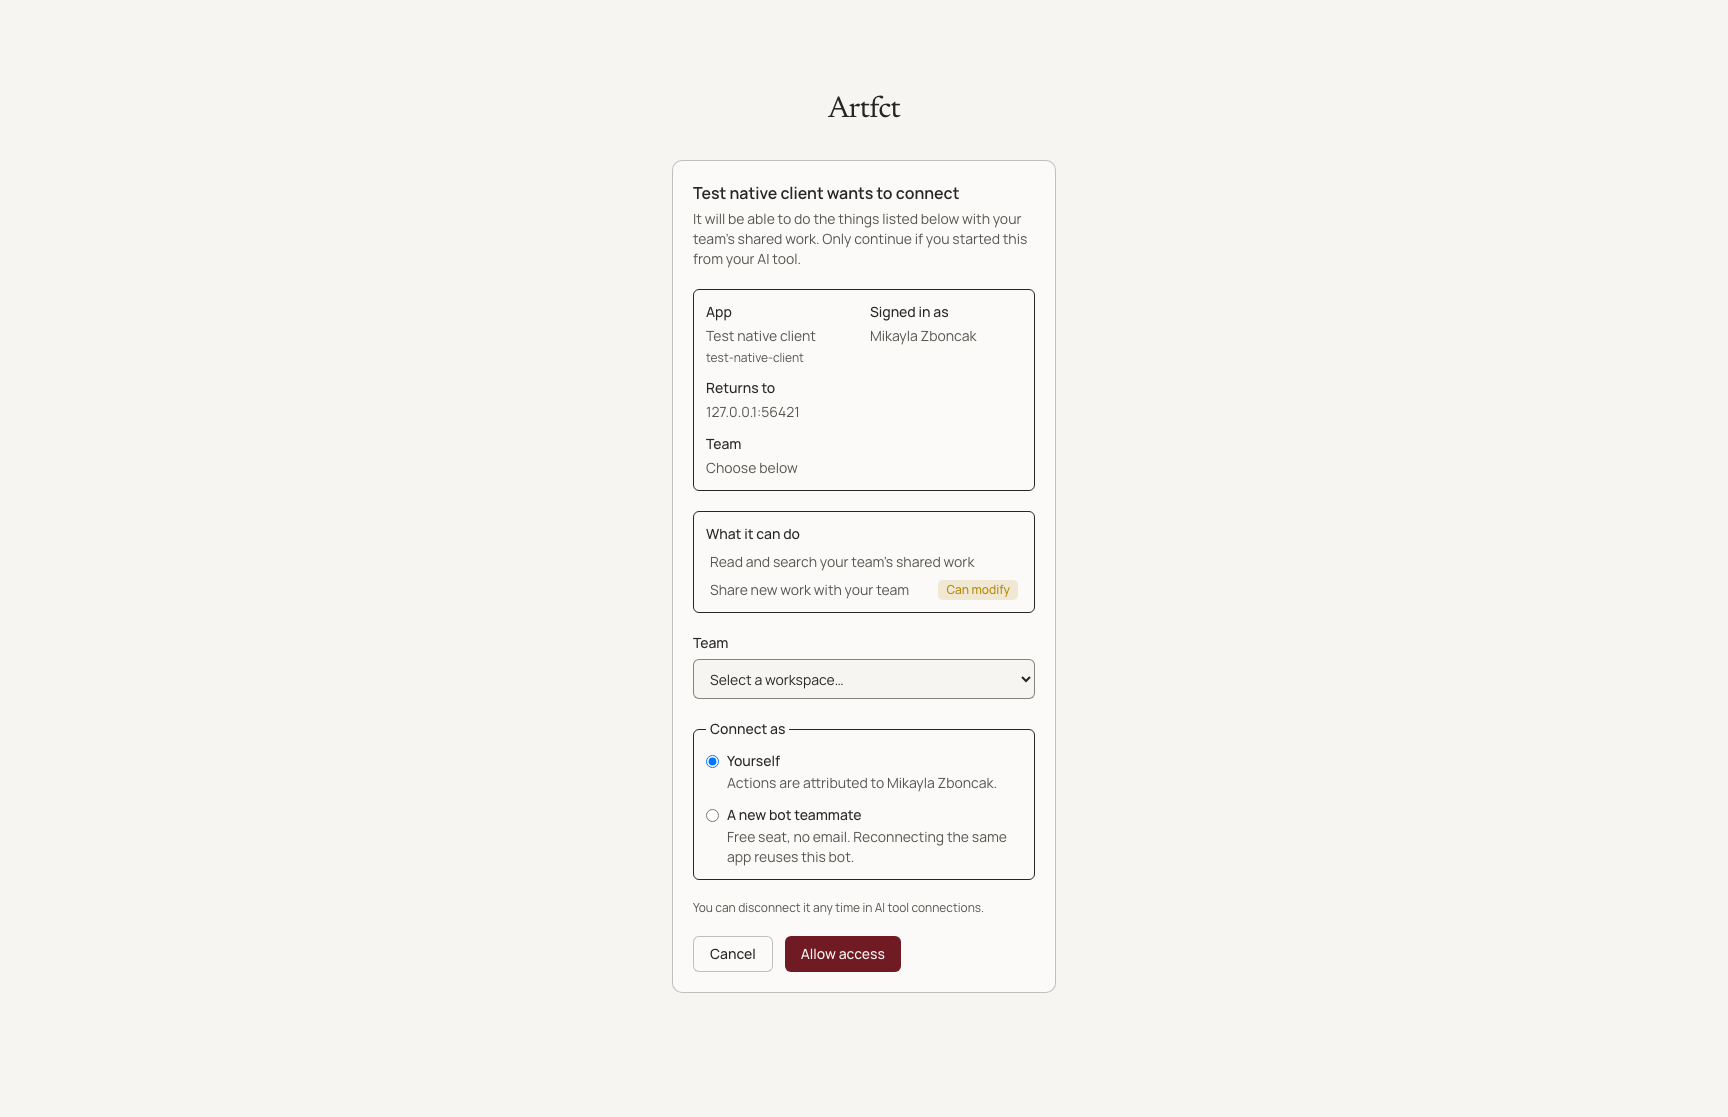
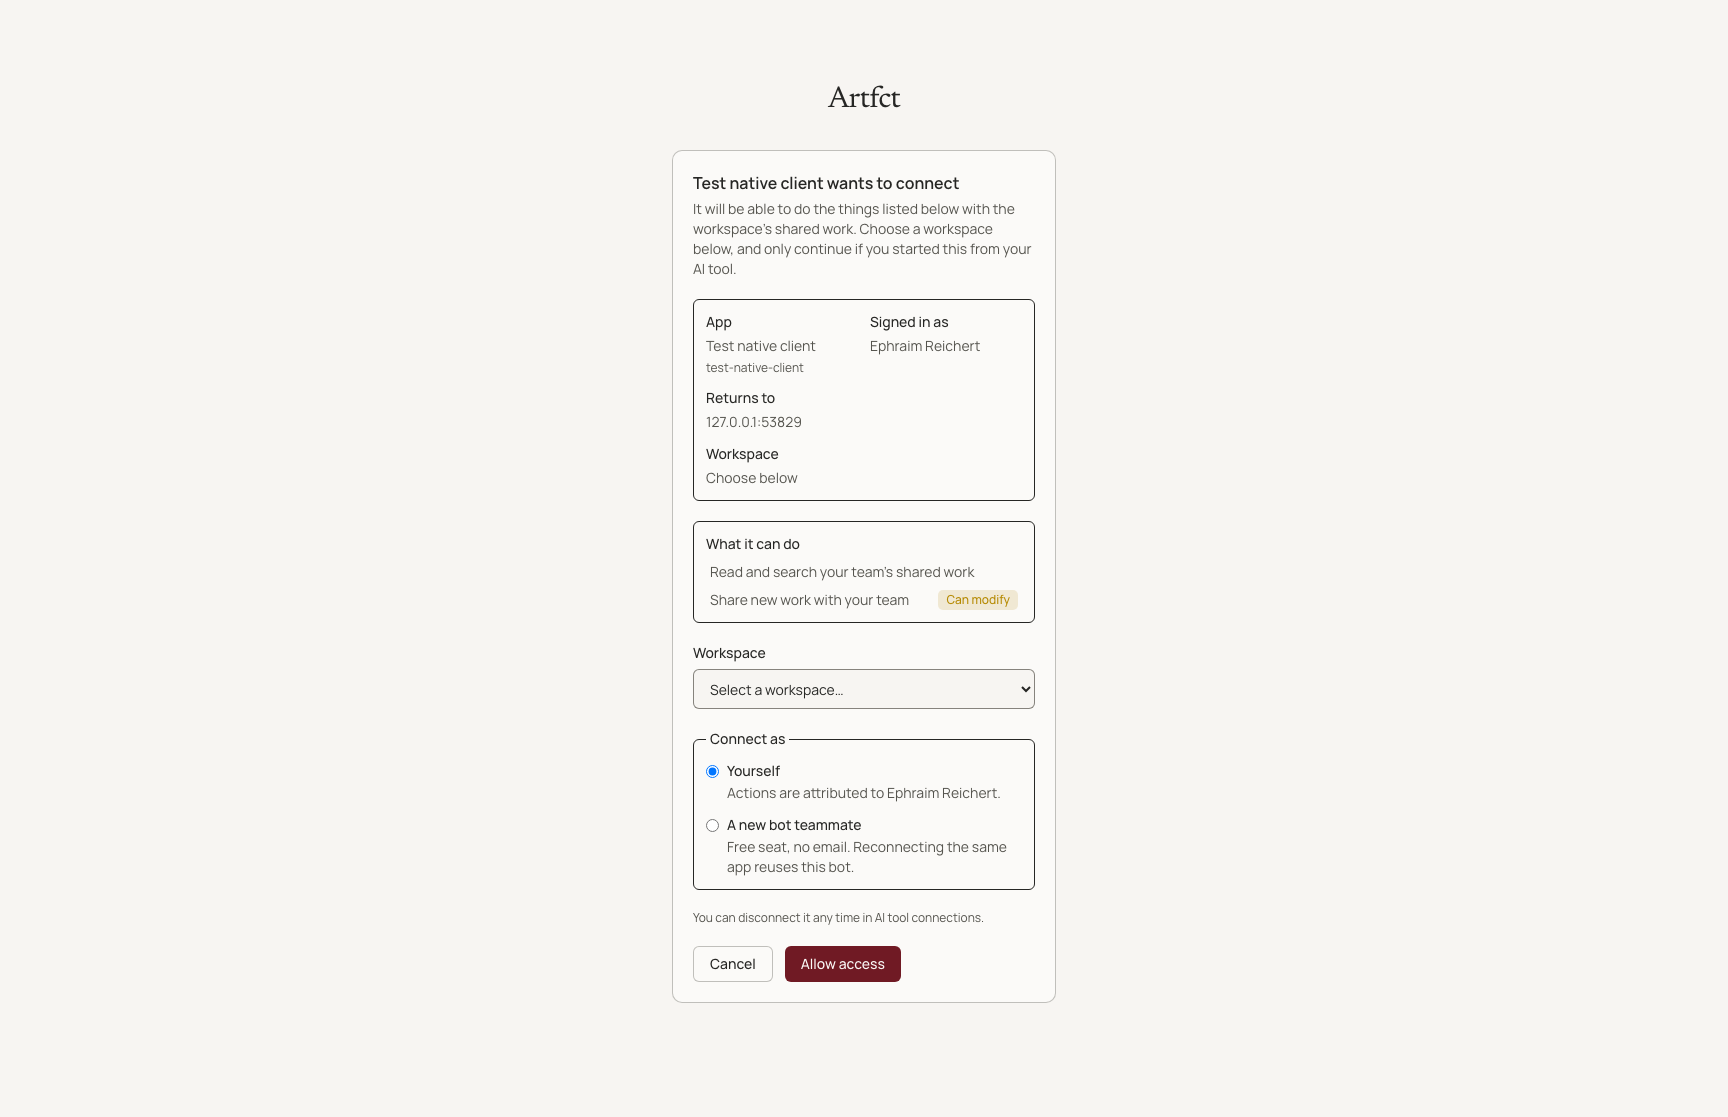
fix(oauth): address owner review on RUB-598
- Cancel skips validation so deny always works; label copy says Workspace.
- Bot options only for admitted workspaces; no bot-name leak.
- Browser cover for cancel-without-choice; bots empty assertion.
- Refreshed after screenshot for the new copy.

diff --git a/resources/js/pages/oauth/authorize.tsx b/resources/js/pages/oauth/authorize.tsx
@@ -169,7 +169,7 @@ function AuthorizeForm({
                             </div>
                         </div>
                         <div className="sm:col-span-2">
-                            <div className="font-medium">Team</div>
+                            <div className="font-medium">Workspace</div>
                             <div className="mt-1 break-words text-muted-foreground">
                                 {selectedTeam === ''
                                     ? 'Choose below'
@@ -282,7 +282,7 @@ function AuthorizeForm({
 
                         {teams.length > 1 && (
                             <div className="flex flex-col gap-1.5">
-                                <Label htmlFor="team">Team</Label>
+                                <Label htmlFor="team">Workspace</Label>
                                 <select
                                     id="team"
                                     name="team"
@@ -464,6 +464,7 @@ function AuthorizeForm({
                                 name="decision"
                                 value="deny"
                                 variant="outline"
+                                formNoValidate
                             >
                                 Cancel
                             </Button>

diff --git a/tests/Browser/McpOAuthOrgPickerBrowserTest.php b/tests/Browser/McpOAuthOrgPickerBrowserTest.php
@@ -56,3 +56,38 @@ test('RUB-598: consent without a hint forces a workspace choice before Allow acc
         'code_verifier' => $verifier,
     ])->assertOk()->assertJsonPath('organization', $pickedTeam->slug);
 });
+
+test('RUB-598: cancelling without picking a workspace still declines the grant', function () {
+    $user = User::factory()->create();
+    $defaultTeam = Team::factory()->create(['name' => 'Default Workspace']);
+    $pickedTeam = Team::factory()->create(['name' => 'Picked Workspace']);
+    $defaultTeam->memberships()->create(['user_id' => $user->id, 'role' => TeamRole::Admin]);
+    $pickedTeam->memberships()->create(['user_id' => $user->id, 'role' => TeamRole::Admin]);
+    $user->switchTeam($defaultTeam);
+    test()->actingAs($user);
+
+    $callback = url('/oauth/callback');
+    oauthTestClient([$callback]);
+    $callbackPort = (string) parse_url($callback, PHP_URL_PORT);
+
+    $parameters = http_build_query([
+        'response_type' => 'code',
+        'client_id' => 'test-native-client',
+        'redirect_uri' => $callback,
+        'scope' => 'artifacts:read artifacts:deploy',
+        'state' => 'rub598-cancel-state',
+        'code_challenge' => oauthChallenge(str_repeat('m', 64)),
+        'code_challenge_method' => 'S256',
+    ]);
+
+    visit('/oauth/authorize?'.$parameters)
+        ->assertSee('Choose below')
+        ->assertNoJavaScriptErrors()
+        ->click('Cancel')
+        ->assertHostIs('127.0.0.1')
+        ->assertPortIs($callbackPort)
+        ->assertPathIs('/oauth/callback')
+        ->assertQueryStringHas('error', 'access_denied')
+        ->assertQueryStringHas('state', 'rub598-cancel-state')
+        ->assertQueryStringMissing('code');
+});

diff --git a/app/Http/Controllers/OAuth/AuthorizationServerController.php b/app/Http/Controllers/OAuth/AuthorizationServerController.php
@@ -219,7 +219,11 @@ final class AuthorizationServerController extends Controller
 
         $client = OAuthClient::query()->where('client_id', $parameters['client_id'])->first();
         $role = $user->teamRole($team);
-        $canInstallAsBot = $role instanceof TeamRole
+        // Bot options are only offered for a workspace the session can use.
+        // With the choice still open, the fallback workspace may be one the
+        // session cannot be admitted to, and its bot names must not leak.
+        $canInstallAsBot = TeamSignIn::admits($request, $user, $team)
+            && $role instanceof TeamRole
             && $role !== TeamRole::Viewer
             && ! $user->isBot();
 

diff --git a/tests/Feature/Identity/AuthModeEnforcementTest.php b/tests/Feature/Identity/AuthModeEnforcementTest.php
@@ -210,5 +210,6 @@ test('an authkit sign_in reaches the workspace picker when the default workspace
         ->assertInertia(fn (AssertableJson $page) => $page
             ->component('oauth/authorize')
             ->where('team', null)
-            ->where('requiresTeamChoice', true));
+            ->where('requiresTeamChoice', true)
+            ->where('bots', []));
 });
